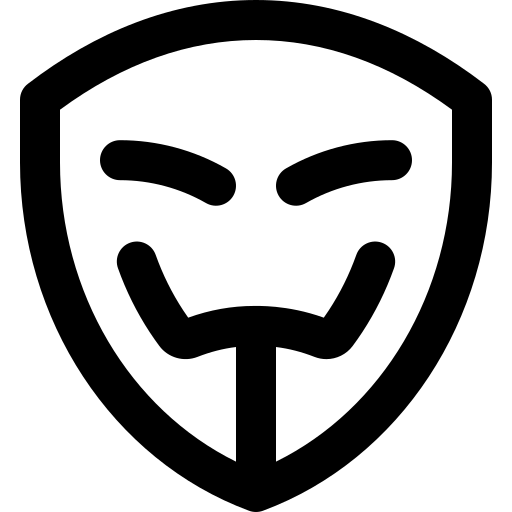
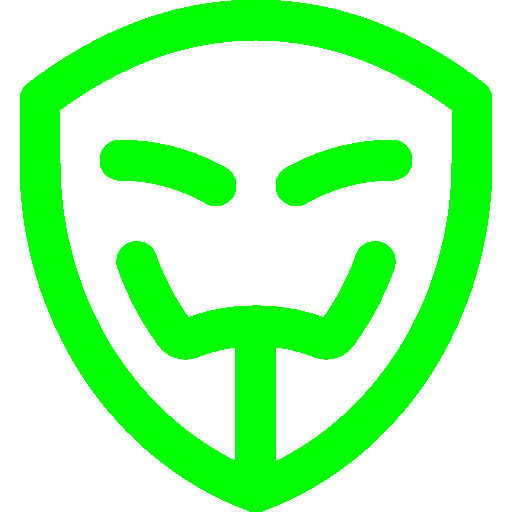
Tweaks

diff --git a/portfolio.html b/portfolio.html
@@ -3,6 +3,7 @@
   <head>
     <!-- <meta http-equiv="refresh" content="1"> -->
     <meta charset="utf-8" />
+    <link rel='icon' type='image/png' href='media/anonymous.png'>
     <link rel="stylesheet" href="master.css">
     <title>NaiveGoblin - Portfolio</title>
 

diff --git a/contacts.html b/contacts.html
@@ -3,6 +3,7 @@
   <head>
     <!-- <meta http-equiv="refresh" content="1"> -->
     <meta charset="utf-8" />
+    <link rel='icon' type='image/png' href='media/anonymous.png'>
     <link rel="stylesheet" href="master.css">
     <title>NaiveGoblin - Contact</title>
 

diff --git a/index.html b/index.html
@@ -3,6 +3,7 @@
   <head>
     <!-- <meta http-equiv="refresh" content="1"> -->
     <meta charset="utf-8" />
+    <link rel='icon' type='image/png' href='media/anonymous.png'>
     <link rel="stylesheet" href="master.css">
     <title>NaiveGoblin - Home</title>
 
